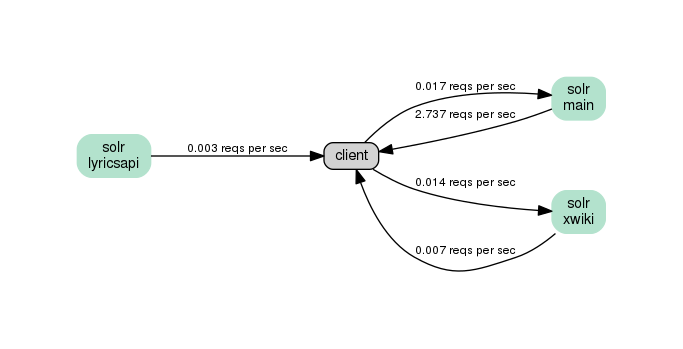
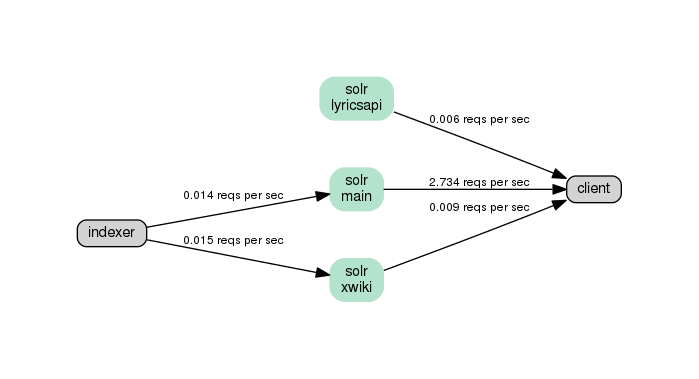
solr | tell apart client and indexer

diff --git a/graphs/solr.py b/graphs/solr.py
@@ -45,7 +45,7 @@ def get_solr_flow_graph(limit, period):
         client = 'client'  # add a user agent to the logs and identify the client based on it
 
         return {
-            'source': 'solr:{}'.format(index) if method == 'select' else client,
+            'source': 'solr:{}'.format(index) if method == 'select' else 'indexer',
             'edge': 'http',
             'target': 'solr:{}'.format(index) if method != 'select' else client,
             # the following is optional
